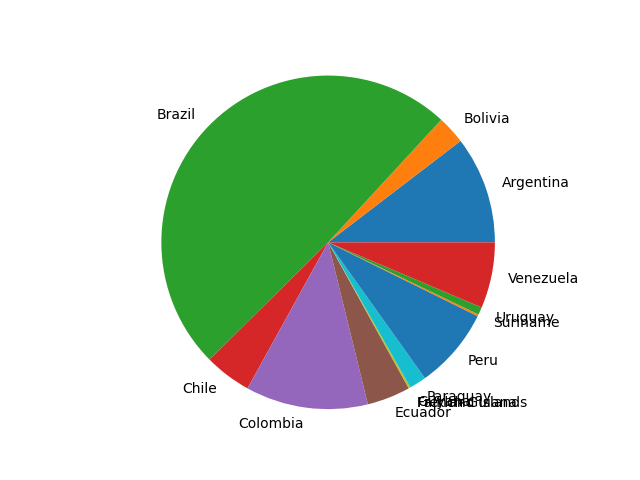
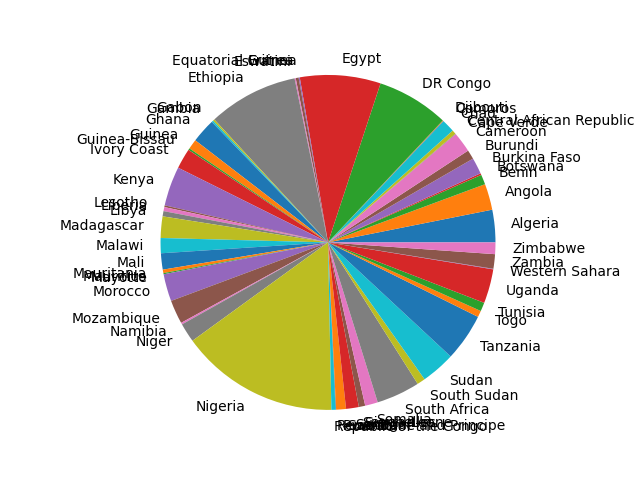
FastAPI

Changed region(s): [[0.0938, 0.0938, 1.0, 0.9062], [0.625, 0.1875, 0.6562, 0.2188]]

diff --git a/CursoDePythonPIPyEntornosVirtuales/py-proyect/app/main.py b/CursoDePythonPIPyEntornosVirtuales/py-proyect/app/main.py
@@ -1,15 +1,28 @@
 import utils
 import read_csv
 import charts
+import pandas as pd
 
 def run():
+  '''
   data = read_csv.read_csv('data.csv')
   data = list(filter(lambda item : item['Continent'] == 'South America',data))
 
   countries = list(map(lambda x: x['Country'], data))
   percentages = list(map(lambda x: x['World Population Percentage'], data))
   charts.generate_pie_chart(countries, percentages)
-  
+
+  '''
+
+  df =pd.read_csv("data.csv")
+  df = df[df["Continent"] == 'Africa']
+
+  countries = df['Country'].values
+  percentages = df['World Population Percentage'].values
+
+  charts.generate_pie_chart(countries, percentages)
+
+  data = read_csv.read_csv('data.csv')
   country = input('Type Country => ')
   country = country.capitalize()
   print(country)

diff --git a/CursoDePythonPIPyEntornosVirtuales/py-proyect/web-server/main.py b/CursoDePythonPIPyEntornosVirtuales/py-proyect/web-server/main.py
@@ -1,0 +1,22 @@
+import store
+from fastapi import FastAPI
+from fastapi.responses import HTMLResponse
+
+app = FastAPI()
+
+@app.get("/")
+def get_list():
+    return [1, 2, 3]
+
+@app.get("/contact", response_class = HTMLResponse)
+def get_list():
+    return """
+        <h1>Hola soy una pagina</h1>
+        <p>Soy un parrafo</p>
+"""
+
+def run():
+    store.get_categories()
+
+if __name__ == "__main__":
+    run()

diff --git a/CursoDePythonPIPyEntornosVirtuales/py-proyect/web-server/store.py b/CursoDePythonPIPyEntornosVirtuales/py-proyect/web-server/store.py
@@ -1,0 +1,10 @@
+import requests
+
+def get_categories():
+    r = requests.get("https://api.escuelajs.co/api/v1/categories")
+    print(r.status_code)
+    print(r.text)
+    print(type(r.text))
+    categories = r.json()
+    for category in categories:
+        print(category["name"])

diff --git a/CursoDePythonPIPyEntornosVirtuales/README.md b/CursoDePythonPIPyEntornosVirtuales/README.md
@@ -144,3 +144,44 @@ python3 main.py
 
 ![pasos](https://static.platzi.com/media/user_upload/Purple%20and%20White%20Simple%20Memo-13837b27-dd0d-40da-8767-4ac3f84afd91.jpg "pasos")
 
+### Python para Backend: web server con FastAPI
+
+- Navegar a proyecto Web
+
+`cd ../web-server`
+
+- Activar ambiente del proyecto
+
+`source env/bin/activate `
+
+- Agregar nuevas librerías FastAPI
+
+`pip3 install fastapi`
+
+- Agregar ASGI (Asynchronous Server Gateway Interface) Uvicorn
+
+`pip3 install "uvicorn[standard]"`
+
+- Verificar librerías instaladas
+
+`pip3 freeze`
+
+- Actualizar Requirements
+
+` pip3 freeze > requirements.txt`
+
+**Python para Backend: web server con FastAPI**
+
+uvicorn servidor web para correr mis aplicaciones como servidor
+
+```sh
+uvicorn main:app --reload # Para correr mi aplicación en un servidor # reaload para volver a cargar el comando cada vez que modifique el archivo principal
+```
+
+#### Lecturas recomendadas
+
+[fastAPI](https://fastapi.tiangolo.com/#installation "fastAPI")
+
+[Custom Response - HTML, Stream, File, others](https://fastapi.tiangolo.com/advanced/custom-response/#html-response "Custom Response - HTML, Stream, File, others")
+
+[curso-python-pip/web_server at master platzi/curso-pip*GitHub](https://github.com/platzi/curso-python-pip/tree/master/web-server "curso-python-pip/web_server at master platzi/curso-pip*GitHub")
